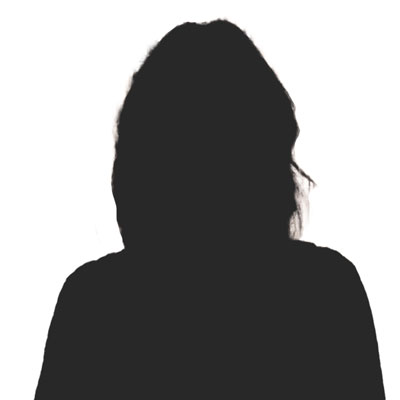
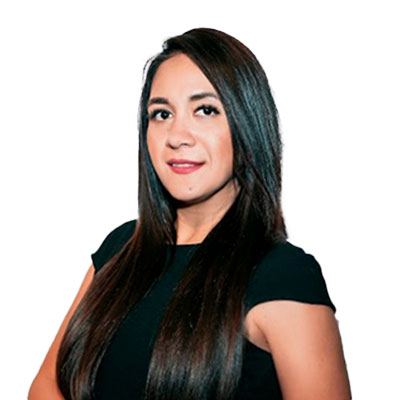
update jurado

diff --git a/index.html b/index.html
@@ -172,16 +172,16 @@
               <h4>Titular de la Agencia de Transformación Digital y de Telecomunicaciones</h4>
               <ul class="d-flex justify-content-center social-buttons"></ul>
             </article>
-          </div> 
-          <div class="col-sm-3">
+          </div> -->
+          <div class="col-sm-4">
             <article class="team-member">
-              <img src="./img/team/AntonioHerrera.jpg" class="img-fluid rounded-circle" />
-              <h3>Antonio Herrera</h3>
-              <h4>Gerente Senior de Programas para América Latina de Open Contracting Partnership (OCP)</h4>
+              <img src="./img/team/ItzelTorres.jpg" class="img-fluid rounded-circle" />
+              <h3>Itzel Torres</h3>
+              <h4>Directora General de Monitor Empresarial de Reputación Corporativa México (MERCO) </h4>
               <ul class="d-flex justify-content-center social-buttons"></ul>
             </article>
           </div>
--->
+
 
           <div class="col-sm-4">
             <article class="team-member">
